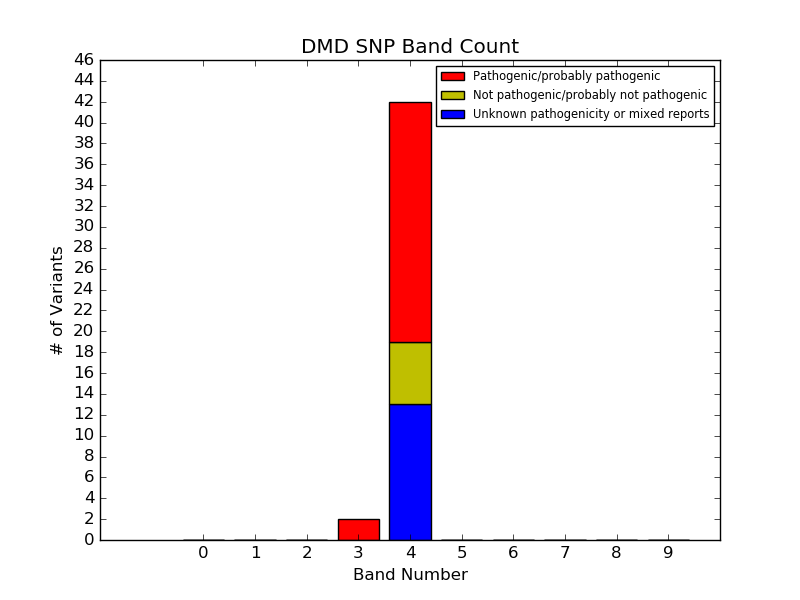
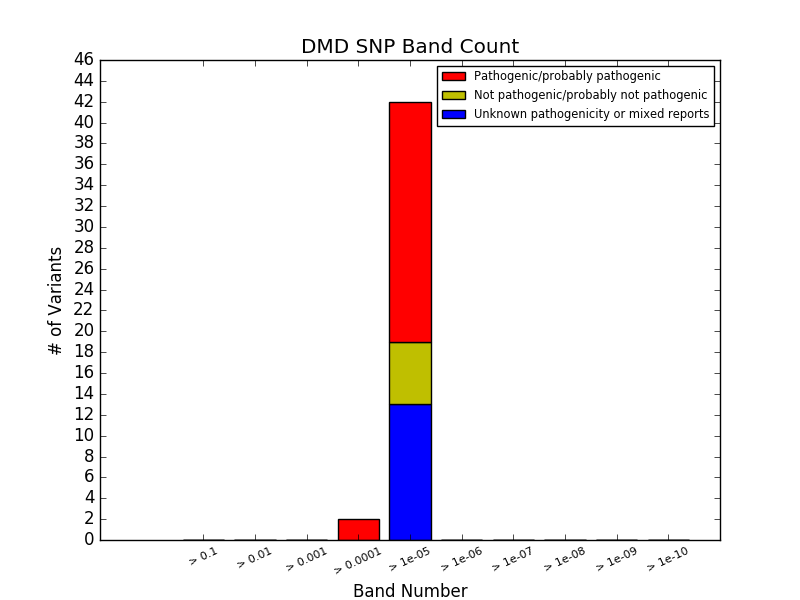
major changes to everything; finished off chart making; started off leiden matrix

diff --git a/leiden_overlay/processing/make_chart.py b/leiden_overlay/processing/make_chart.py
@@ -1,6 +1,7 @@
 import numpy as np
 import matplotlib.pyplot as plt
 import sys
+import math
 import scipy #get rid of this? useless - replace later use
 input_gene = sys.argv[1]
 
@@ -43,10 +44,10 @@ for line in lines:
         snp_count += 1
 #print pathogenics
 #print bands
-
-snp_count -= bands['NA']
-del bands['NA']
-del pathogenics['NA']
+if 'NA' in bands:
+    snp_count -= bands['NA']
+    del bands['NA']
+    del pathogenics['NA']
 
 #band_pairs = [(int(k),v) for k,v in bands.items()]
 #band_pairs = sorted(band_pairs, key = lambda x: x[0])
@@ -54,6 +55,7 @@ del pathogenics['NA']
 bands_dic = {int(k):v for k,v in bands.items()}
 pathogenics = {int(k):v for k,v in pathogenics.items()}
 x_axis = np.arange(0, 10)
+
 y_axis = [0 for i in range(0, 10)]
 
 threshold_yes = [0 for i in range(0, 10)]
@@ -86,9 +88,13 @@ ax.set_ylabel("# of Variants")
 ax.set_xlabel("Band Number") # PUT IN A KEY
 ax.set_yticks(scipy.arange(0, max(y_axis)+5, 2))
 ax.set_xticks(np.arange(0, 10, 1))
+ax.set_xticklabels(['< ' + str(math.pow(10, -(k))) for k in x_axis], rotation=25, fontsize=8)
 ax.set_title("%s SNP Band Count"%(input_gene))
+
+
 #ax.suplots_adjust(left=0.09, bottom=0.20)
 legend1 = plt.legend((rect_yes, rect_no, rect_unknown), ("Pathogenic/probably pathogenic", "Not pathogenic/probably not pathogenic", "Unknown pathogenicity or mixed reports"), fontsize='x-small', loc=1)
+
 
 #bandstr = "\n'Band' measures percentage allele frequency within the ExAC sample population.\nBand 0: 10^-1 to 1\n"
 #for i in range(1, 9):
@@ -98,7 +104,20 @@ legend1 = plt.legend((rect_yes, rect_no, rect_unknown), ("Pathogenic/probably pa
 #plt.figtext(0.2, 0.2, "'Band' measures the percentage allele frequency within the ExAC sample population.\nA variant is in Band i if its allele frequency is between 10^-(i+1) and 10^-i.\nA variant in a higher band hence implies lower allele frequency.", fontsize="x-small")
 #plt.setp(ax.set_xticklabels(x_axis))
 
+### UNCOMMENT IF YOU WANT THE BAND STUFF...
+#plt.subplots_adjust(bottom=0.20)
+#plt.figtext(0.05, 0.02, "'Band' measures the percentage allele frequency within the ExAC sample population.\nA variant is in Band k if its allele frequency is between 10^-(k+1) and 10^(-k)\nA variant in a higher band hence implies lower allele frequency.")
+###
+
 fig.savefig("../results/" + input_gene + "/" + input_gene + "_chart.png")
-plt.subplots_adjust(bottom=0.20)
-plt.figtext(0.05, 0.02, "'Band' measures the percentage allele frequency within the ExAC sample population.\nA variant is in Band k if its allele frequency is between 10^-(k+1) and 10^(-k)\nA variant in a higher band hence implies lower allele frequency.")
-plt.show()
+#plt.show()
+
+
+# THROW IN NOW THE NEW MATRIX STUFF
+table_data = open("../dat/" + input_gene + "_table_data.txt", "w")
+for i in range(0, 10):
+    if i in pathogenics:
+        table_data.write(','.join([str(x) for x in pathogenics[i]]) + '\n')
+    else:
+        table_data.write('0,0,0\n')
+table_data.close()

diff --git a/leiden_overlay/processing/group_data.py b/leiden_overlay/processing/group_data.py
@@ -1,4 +1,5 @@
 import sys
+import math
 input_gene = sys.argv[1]
 
 # input files - we assume they are sorted by frequency
@@ -11,23 +12,15 @@ result = open("../dat/" + input_gene + "_grouped.txt", "w") # output file
 # get indices of important columns in the table
 freq_ind = lines[0].index("deduced_allele_frequency")
 path_ind = lines[0].index("reported_pathogenicity")
+genom_ind = lines[0].index("location")
+band_ind = lines[0].index("band")
 
-j = 1
-for i in range(9, -1, -1):
-    ten_pow = 10 ** (-i)
-    count = 0
-    result.write("< %0.9f\n"%(ten_pow))
-    result_part = ""
+col_names = ["freq_range", "variant", "genomic_coord", "exac_allele_freq", "reported_leiden_pathogenicity"]
+result.write("\t".join(col_names) + '\n')
 
-    # keep writing the next gene to this band level until we reach the next band
-    # or we hit the last variant
-    # written info is ---> variant_name pathogenicity   allele frequency
-    while j < len(lines) and float(lines[j][freq_ind]) < ten_pow:
-        result_part += ("---> %s\t%s\t%0.9f\n"%(lines[j][0], lines[j][path_ind], float(lines[j][freq_ind])))
-        count += 1
-        j+=1
-    result_part += ('\n')
-    result.write("TOTAL: %d\n"%(count)) # total number of variants in this band
-    result.write(result_part)
+for j in range(1,len(lines)):
+    freq_cat = "< " + "%.9f"%(math.pow(10, -int(lines[j][band_ind])))
+    result_sol = [freq_cat, lines[j][0], lines[j][genom_ind], "%.9f"%(float(lines[j][freq_ind])), lines[j][path_ind]]
+    result.write("\t".join(result_sol) + '\n')
 
 result.close()

diff --git a/leiden_overlay/processing/OLD_group_data.py b/leiden_overlay/processing/OLD_group_data.py
@@ -1,0 +1,33 @@
+import sys
+input_gene = sys.argv[1]
+
+# input files - we assume they are sorted by frequency
+gene_csv = open("../dat/" + input_gene + "_snp_fixed_nodup.txt")
+lines = [line.rstrip('\n').split('\t') for line in gene_csv]
+gene_csv.close()
+
+result = open("../dat/" + input_gene + "_grouped.txt", "w") # output file
+
+# get indices of important columns in the table
+freq_ind = lines[0].index("deduced_allele_frequency")
+path_ind = lines[0].index("reported_pathogenicity")
+
+j = 1
+for i in range(9, -1, -1):
+    ten_pow = 10 ** (-i)
+    count = 0
+    result.write("< %0.9f\n"%(ten_pow))
+    result_part = ""
+
+    # keep writing the next gene to this band level until we reach the next band
+    # or we hit the last variant
+    # written info is ---> variant_name pathogenicity   allele frequency
+    while j < len(lines) and float(lines[j][freq_ind]) < ten_pow:
+        result_part += ("---> %s\t%s\t%0.9f\n"%(lines[j][0], lines[j][path_ind], float(lines[j][freq_ind])))
+        count += 1
+        j+=1
+    result_part += ('\n')
+    result.write("TOTAL: %d\n"%(count)) # total number of variants in this band
+    result.write(result_part)
+
+result.close()

diff --git a/leiden_overlay/processing/add_pathogenicity.py b/leiden_overlay/processing/add_pathogenicity.py
@@ -63,7 +63,12 @@ for page_number in range(1, num_pages+1):
         row_details = row.find_all('td')
         pathogenicity =  convert_path(row_details[0].get_text().split('/')[0])
         #print row_details
-        dna_change = row_details[2].find(lambda tag: tag.name == 'a' and tag.get('class') == [u'data']).get_text()
+        try:
+            dna_change = row_details[2].find(lambda tag: tag.name == 'a' and tag.get('class') == [u'data']).get_text()
+        except:
+            # because apparently some genes have rearranged columns.... see BIN1 vs. DYSF [and most others]
+            dna_change = row_details[3].find(lambda tag: tag.name == 'a' and tag.get('class') == [u'data']).get_text()
+
         if (dna_change in variant_dict) and variant_dict[dna_change] != pathogenicity:
             variant_dict[dna_change] = "Mixed reported pathogenicity"
         elif dna_change not in variant_dict:

diff --git a/leiden_overlay/processing/make_matrix.py b/leiden_overlay/processing/make_matrix.py
@@ -1,0 +1,27 @@
+import math
+mat = open("all_data.txt", "w")
+
+genes = open("good_genes.txt", "r")
+lines = [x.rstrip('\n') for x in genes.readlines()]
+genes.close()
+
+col_names = "Gene\tType\t" + '\t'.join(["< %0.9f"%(math.pow(10, -(k))) for k in range(0, 10, 1)])
+mat.write(col_names + '\n')
+
+for gene in lines:
+    print gene + "..."
+    try:
+        f = open("../dat/" + gene + "_table_data.txt", "r")
+    except:
+        continue
+    gene_lines = f.readlines()
+    f.close()
+    freqs = [x.rstrip('\n').split(',') for x in gene_lines]
+
+    P = [x[0] for x in freqs]
+    NP = [x[1] for x in freqs]
+    UN = [x[2] for x in freqs]
+
+    mat.write(gene + '\t' + 'Pathogenic\t' + '\t'.join(P) + '\n')
+    mat.write(gene + '\t' + 'Not Pathogenic\t' + '\t'.join(NP) + '\n')
+    mat.write(gene + '\t' + 'Unknown\t' + '\t'.join(UN) + '\n')

diff --git a/leiden_overlay/processing/categorise_types.py b/leiden_overlay/processing/categorise_types.py
@@ -18,11 +18,13 @@ snps_fixed = open("./../dat/" + input_gene + "_snp_fixed.txt", "w")
 
 del_file = open("./../dat/" + input_gene + "_del.txt", "w")
 dup_file = open("./../dat/" + input_gene + "_dup.txt", "w")
+other_file = open("./../dat/" + input_gene + "_other.txt", "w")
 
 snp_file.write(col_names + '\n')
 snps_fixed.write(col_names + '\n')
 del_file.write(col_names + '\n')
 dup_file.write(col_names + '\n')
+other_file.write(col_names+'\n')
 
 for line in lines:
     if line[type_index] == "snp":
@@ -38,7 +40,8 @@ for line in lines:
         del line[type_index]
         dup_file.write('\t'.join(line) + '\n')
     else:
-        print line[0] + " could not be categorised..."
+        del line[type_index]
+        other_file.write('\t'.join(line) + '\n')
 
 #PUT THE FILES IN A DICT INSTEAD
 snp_file.close()

diff --git a/leiden_overlay/processing/OLD02_make_matrix.py b/leiden_overlay/processing/OLD02_make_matrix.py
@@ -1,0 +1,21 @@
+import math
+mat = open("all_data.txt", "w")
+
+genes = open("good_genes.txt", "r")
+lines = [x.rstrip('\n') for x in genes.readlines()]
+genes.close()
+
+band_names = "\t" + '\t\t\t'.join(['> ' + str(math.pow(10, -(k+1))) for k in range(0, 10, 1)])
+col_names = 'Gene\t'
+for i in range(0, 10):
+    col_names += "Pathogenic\tNot Pathogenic\tUnknown\t"
+mat.write(band_names + '\n' + col_names + '\n')
+
+for gene in lines:
+    print gene + "..."
+    try:
+        f = open("../dat/" + gene + "_table_data.txt", "r")
+    except:
+        continue
+    mat.write(gene + '\t' + '\t'.join(['\t'.join(x.rstrip('\n').split(',')) for x in f.readlines()]) + '\n')
+    f.close()

diff --git a/leiden_overlay/processing/OLD01_make_matrix.py b/leiden_overlay/processing/OLD01_make_matrix.py
@@ -1,0 +1,18 @@
+import math
+mat = open("all_data.txt", "w")
+
+genes = open("good_genes.txt", "r")
+lines = [x.rstrip('\n') for x in genes.readlines()]
+genes.close()
+
+col_names = "Gene\t" + '\t'.join(['> ' + str(math.pow(10, -(k+1))) for k in range(0, 10, 1)])
+mat.write(col_names + '\n')
+
+for gene in lines:
+    print gene + "..."
+    try:
+        f = open("../dat/" + gene + "_table_data.txt", "r")
+    except:
+        continue
+    mat.write(gene + '\t' + '\t'.join([x.rstrip('\n') for x in f.readlines()]) + '\n')
+    f.close()

diff --git a/leiden_overlay/processing/get_gene_list.py b/leiden_overlay/processing/get_gene_list.py
@@ -1,0 +1,13 @@
+from bs4 import BeautifulSoup
+import urllib
+
+r = urllib.urlopen("http://www.dmd.nl/nmdb2/home.php?action=switch_db").read()
+soup = BeautifulSoup(r, "html.parser")
+
+option_screen = soup.find(lambda tag: tag.name == "select")
+values = option_screen.find_all('option')
+
+f = open("../dat/gene_list.txt", "w")
+for value in values:
+    f.write(value.get_text().split(' ')[0] + "\n")
+f.close()

diff --git a/leiden_overlay/processing/process_data.py b/leiden_overlay/processing/process_data.py
@@ -191,6 +191,14 @@ for line in rows:
 
     if '>' in var_name:
         var_type = "snp"
+    elif 'delins' in var_name:
+        var_type = "delins"
+    elif 'ins' in var_name:
+        var_type = "ins"
+    elif 'inv' in var_name:
+        var_type = "inv"
+    elif 'con' in var_name:
+        var_type = "con"
     elif 'del' in var_name:
         var_type = "del"
     elif 'dup' in var_name:
